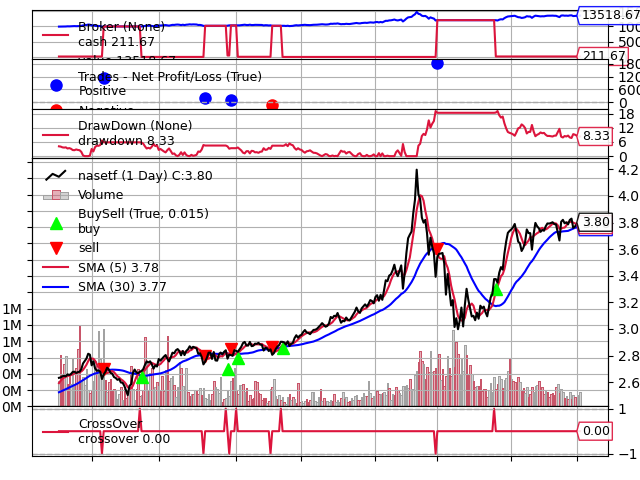
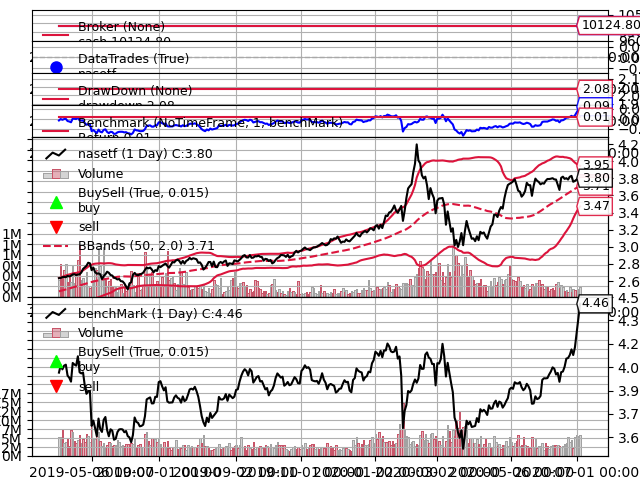
实现布林带策略，并对回测类进行了一些修改完善。

diff --git a/47/backtest.py b/47/backtest.py
@@ -37,6 +37,7 @@ class BackTest:
         self.__returns = pd.Series()
         self.__benchmarkCode = benchmarkCode
         self.__benchReturns = pd.Series()
+        self.__benchFeed = None
         self.__bDraw = bDraw
         self.__start_date = None
         self.__end_date = None
@@ -46,13 +47,22 @@ class BackTest:
     def init(self):
         self.__cerebro = bt.Cerebro()
         self.__cerebro.addstrategy(self.__strategy)
-        self.settingCerebro()
         self.createDataFeeds()
+        self.settingCerebro()
+        
+    # 进行参数优化
+    def _optStrategy(self, *args, **kwargs):
+        self.__cerebro = bt.Cerebro(maxcpus = 1)
+        self.__cerebro.optstrategy(self.__strategy, *args, **kwargs)
+        self.createDataFeeds()
+        self.settingCerebro()
+
         
     # 设置cerebro
     def settingCerebro(self):
         # 添加回撤观察器
         self.__cerebro.addobserver(bt.observers.DrawDown)
+        self.__cerebro.addobserver(bt.observers.Benchmark, data = self.__benchFeed, timeframe = bt.TimeFrame.NoTimeFrame)
         # 设置手续费
         self.__cerebro.broker.setcommission(commission=self.__commission)
         # 设置初始资金
@@ -64,18 +74,27 @@ class BackTest:
         self.__cerebro.addanalyzer(btay.Returns, _name = "RE")
         self.__cerebro.addanalyzer(btay.TradeAnalyzer, _name = "TA")
         self.__cerebro.addanalyzer(btay.TimeReturn, _name = "TR")
+        self.__cerebro.addanalyzer(btay.TimeReturn, _name = "TR_Bench", data = self.__benchFeed)
         self.__cerebro.addanalyzer(btay.SQN, _name = "SQN")
         
     # 建立数据源
     def createDataFeeds(self):
+        # 建立回测数据源
         for i in range(len(self.__code)):
-            df_data = self._getData(self.__code[i])
-            start_date = list(map(int, self.__start.split("-")))
-            end_date = list(map(int, self.__end.split("-")))
-            self.__start_date = datetime.datetime(start_date[0], start_date[1], start_date[2])
-            self.__end_date = datetime.datetime(end_date[0], end_date[1], end_date[2])
-            dataFeed = bt.feeds.PandasData(dataname = df_data, name = self.__name[i], fromdate = datetime.datetime(start_date[0], start_date[1], start_date[2]), todate = datetime.datetime(end_date[0], end_date[1], end_date[2]))
+            dataFeed = self._createDataFeeds(self.__code[i], self.__name[i])
             self.__cerebro.adddata(dataFeed, name = self.__name[i])
+        self.__benchFeed = self._createDataFeeds(self.__benchmarkCode, "benchMark")
+        self.__cerebro.adddata(self.__benchFeed, name = "benchMark")
+            
+    # 建立数据源的具体过程
+    def _createDataFeeds(self, code, name):
+        df_data = self._getData(code)
+        start_date = list(map(int, self.__start.split("-")))
+        end_date = list(map(int, self.__end.split("-")))
+        self.__start_date = datetime.datetime(start_date[0], start_date[1], start_date[2])
+        self.__end_date = datetime.datetime(end_date[0], end_date[1], end_date[2])
+        dataFeed = bt.feeds.PandasData(dataname = df_data, name = name, fromdate = datetime.datetime(start_date[0], start_date[1], start_date[2]), todate = datetime.datetime(end_date[0], end_date[1], end_date[2]))
+        return dataFeed
             
     # 获取账户总价值
     def getValue(self):
@@ -92,17 +111,39 @@ class BackTest:
             self.__backtestResult["交易次数"] = total_trade_num
             self.__backtestResult["胜率"] = win_num/total_trade_num
             self.__backtestResult["败率"] = lost_num/total_trade_num
-        
+            
+    # 根据SQN值对策略做出评估
+    # 按照backtrader文档写的
+    def _judgeBySQN(self):
+        sqn = self.__backtestResult["SQN"]
+        result = None
+        if sqn >= 1.6 and sqn <= 1.9:
+            result = "低于平均"
+        elif sqn > 1.9 and sqn <= 2.4:
+            result = "平均水平"
+        elif sqn > 2.4 and sqn <= 2.9:
+            result = "良好"
+        elif sqn > 2.9 and sqn <= 5.0:
+            result = "优秀"
+        elif sqn > 5.0 and sqn <= 6.9:
+            result = "卓越"
+        elif sqn > 6.9:
+            result = "大神?"
+        else:
+            result = "很差"
+        self.__backtestResult["策略评价(根据SQN)"] = result
         
     # 计算并保存回测结果指标
     def _Result(self):
         self.__backtestResult["账户总额"] = self.getValue()
         self.__backtestResult["总收益率"] = self.__results[0].analyzers.RE.get_analysis()["rtot"]
         self.__backtestResult["年化收益率"] = self.__results[0].analyzers.RE.get_analysis()["rnorm"]
+        # self.__backtestResult["交易成本"] = self.__cerebro.strats[0].getCommission()
         self.__backtestResult["夏普比率"] = self.__results[0].analyzers.sharpe.get_analysis()["sharperatio"]
         self.__backtestResult["最大回撤"] = self.__results[0].analyzers.DD.get_analysis().max.drawdown
         self.__backtestResult["最大回撤期间"] = self.__results[0].analyzers.DD.get_analysis().max.len
         self.__backtestResult["SQN"] = self.__results[0].analyzers.SQN.get_analysis()["sqn"]
+        self._judgeBySQN()
 
         # 计算胜率信息
         self._winInfo()
@@ -115,7 +156,7 @@ class BackTest:
     def getReturns(self):
         return self.__returns, self.__benchReturns
         
-    # 获取收益率序列
+    # 计算收益率序列
     def _timeReturns(self):
         self.__returns = pd.Series(self.__results[0].analyzers.TR.get_analysis())
         
@@ -134,16 +175,22 @@ class BackTest:
         
     # 执行回测
     def run(self):
-        print("初始资金:%.2f" % self.getValue())
+        self.__backtestResult["期初账户总值"] = self.getValue()
         self.__results = self.__cerebro.run()
-        print("期末资金:%.2f" % self.getValue())
+        self.__backtestResult["期末账户总值"] = self.getValue()
         self._Result()
         if self.__bDraw == True:
             self._drawResult()
         self._timeReturns()
-        self.__benchReturns = self._runBenchmark()
+        self.__benchReturns = self._getBenchmarkReturns()
         self._riskAnaly()
         return self.getResult()
+        
+    # 执行参数优化的回测
+    def optRun(self, *args, **kwargs):
+        self._optStrategy(*args, **kwargs)
+        self.__cerebro.run()
+        self.init()
         
     # 回测结果绘图
     def _drawResult(self):
@@ -174,73 +221,8 @@ class BackTest:
         return df
         
     # 运行基准策略，获取基准收益值
-    def _runBenchmark(self):
-        benchCerebro = bt.Cerebro()
-        benchCerebro.addstrategy(Benchmark)
-        # 设置手续费
-        self.__cerebro.broker.setcommission(commission=self.__commission)
-        # 设置初始资金
-        self.__cerebro.broker.setcash(self.__initcash)
-        # 添加收益分析器
-        benchCerebro.addanalyzer(btay.TimeReturn, _name = "TR")
-        # 获取数据并添加
-        df_data = self._getData(self.__benchmarkCode)
-        start_date = list(map(int, self.__start.split("-")))
-        end_date = list(map(int, self.__end.split("-")))
-        dataFeed = bt.feeds.PandasData(dataname = df_data, name = "BenchMark", fromdate = datetime.datetime(start_date[0], start_date[1], start_date[2]), todate = datetime.datetime(end_date[0], end_date[1], end_date[2]))
-        benchCerebro.adddata(dataFeed, name = "BenchMark")
-        # 执行回测
-        results = benchCerebro.run()
-        # 获取收益率序列
-        return pd.Series(results[0].analyzers.TR.get_analysis())
-        
-        
-# 基准策略类，用于计算α，β等回测指标
-# 采用第一天全仓买入并持有的策略
-class Benchmark(bt.Strategy):
-    def __init__(self):
-        self.order = None
-        self.bBuy = False
-        self.dataclose = self.datas[0].close
-        
-    def next(self):
-        if self.bBuy == True:
-            return
-        else:
-            cash = self.broker.get_cash()
-            stock = math.ceil(cash/self.dataclose/100)*100 - 100
-            self.order = self.buy(size = stock, price = self.datas[0].close)
-            self.bBuy = True
-            
-    def stop(self):
-        self.order = self.close()
-        
-        
-# 计算年化夏普值，参考backtrader的文档
-class SharpeRatio(Analyzer):
-    params = (("timeframe", TimeFrame.Years), ("riskfreerate", 0.02))
-    
-    def __init__(self):
-        super(SharpeRatio, self).__init__()
-        self.anret = AnnualReturn()
-        
-    def start(self):
-        pass
-        
-    def next(self):
-        pass
-        
-    def stop(self):
-        retfree = [self.p.riskfreerate] * len(self.anret.rets)
-        retavg = average(list(map(operator.sub, self.anret.rets, retfree)))
-        retdev = standarddev(self.anret.rets)
-        if retdev == 0.0:
-            self.ratio = 0.0
-        else:
-            self.ratio = retavg/retdev
-        
-    def get_analysis(self):
-        return dict(sharperatio = self.ratio)
+    def _getBenchmarkReturns(self):
+        return pd.Series(self.__results[0].analyzers.TR_Bench.get_analysis())
         
 
 # 用empyrical库计算风险指标

diff --git a/47/Bolling.py b/47/Bolling.py
@@ -1,0 +1,60 @@
+# coding:utf-8
+# 布林带策略实现
+
+
+import backtrader as bt
+import backtest
+import pandas as pd
+import math
+
+
+class Bolling(bt.Strategy):
+    params = dict(
+            period = 50
+    )
+    
+    def __init__(self):
+        self.bb = bt.ind.BBands(period = self.p.period, devfactor = 2.0)
+        self.dataclose = self.datas[0].close
+        self.order = None
+        
+    def log(self, txt, dt=None):
+        dt = dt or self.datas[0].datetime.date(0)
+        print('%s, %s' % (dt.isoformat(), txt))
+        
+    def next(self):
+        # self.log("持仓%d" % (self.position.size))
+        if self.order:
+            return
+        if not self.position:
+            # 突破下轨 买入
+            if self.bb.bot > self.datas[0].close:
+                cash = self.broker.get_cash()
+                stock = math.ceil(cash/self.dataclose/100)*100 - 100
+                self.order = self.buy(size = stock, price = self.datas[0].close, exectype = bt.Order.Market)
+        else:
+            # 持仓且突破上轨，卖出
+            if self.bb.bot < self.datas[0].close:
+                self.order = self.close()
+            
+    def notify_order(self, order):
+        # 有交易提交/被接受，啥也不做
+        if order.status in [order.Submitted, order.Accepted]:
+            return
+
+        self.order = None
+        
+    def stop(self):
+        self.log("周期%d期末账户总值%.2f" % (self.p.period, self.broker.getvalue()))
+
+if __name__ == "__main__":
+    start = "2018-01-01"
+    end = "2020-07-05"
+    name = ["nasetf"]
+    code = ["513100"]
+    backtest = backtest.BackTest(Bolling, start, end, code, name, 10000)
+    result = backtest.run()
+    # backtest.output()
+    print(result)
+    backtest.optRun(period = range(5, 50))
+    

diff --git a/47/trade.py b/47/trade.py
@@ -75,7 +75,7 @@ class TradeStrategy(bt.Strategy):
     def __doTrade(self, data, name, price, stock, commit, orderType):
         if stock > 0 and name == data._name:
             self.broker.add_cash(price*stock + commit)
-            print("测试a", price*stock+commit, self.broker.get_cash(), self.broker.get_value(), self.broker.get_fundshares(), self.broker.get_fundvalue())
+            # print("测试a", price*stock+commit, self.broker.get_cash(), self.broker.get_value(), self.broker.get_fundshares(), self.broker.get_fundvalue())
             self.order = self.buy(data = data, size = stock, price = price, exectype = orderType)
         elif stock < 0 and name == data._name:
             self.order = self.sell(data = data, size = -1*stock, price = price, exectype = orderType)
@@ -103,6 +103,7 @@ class TradeStrategy(bt.Strategy):
         self.doTrade()
                         
     def stop(self):
+        self.order = self.close()
         self.log("最大回撤:-%.2f%%" % self.stats.drawdown.maxdrawdown[-1], doprint=True)
                     
 
